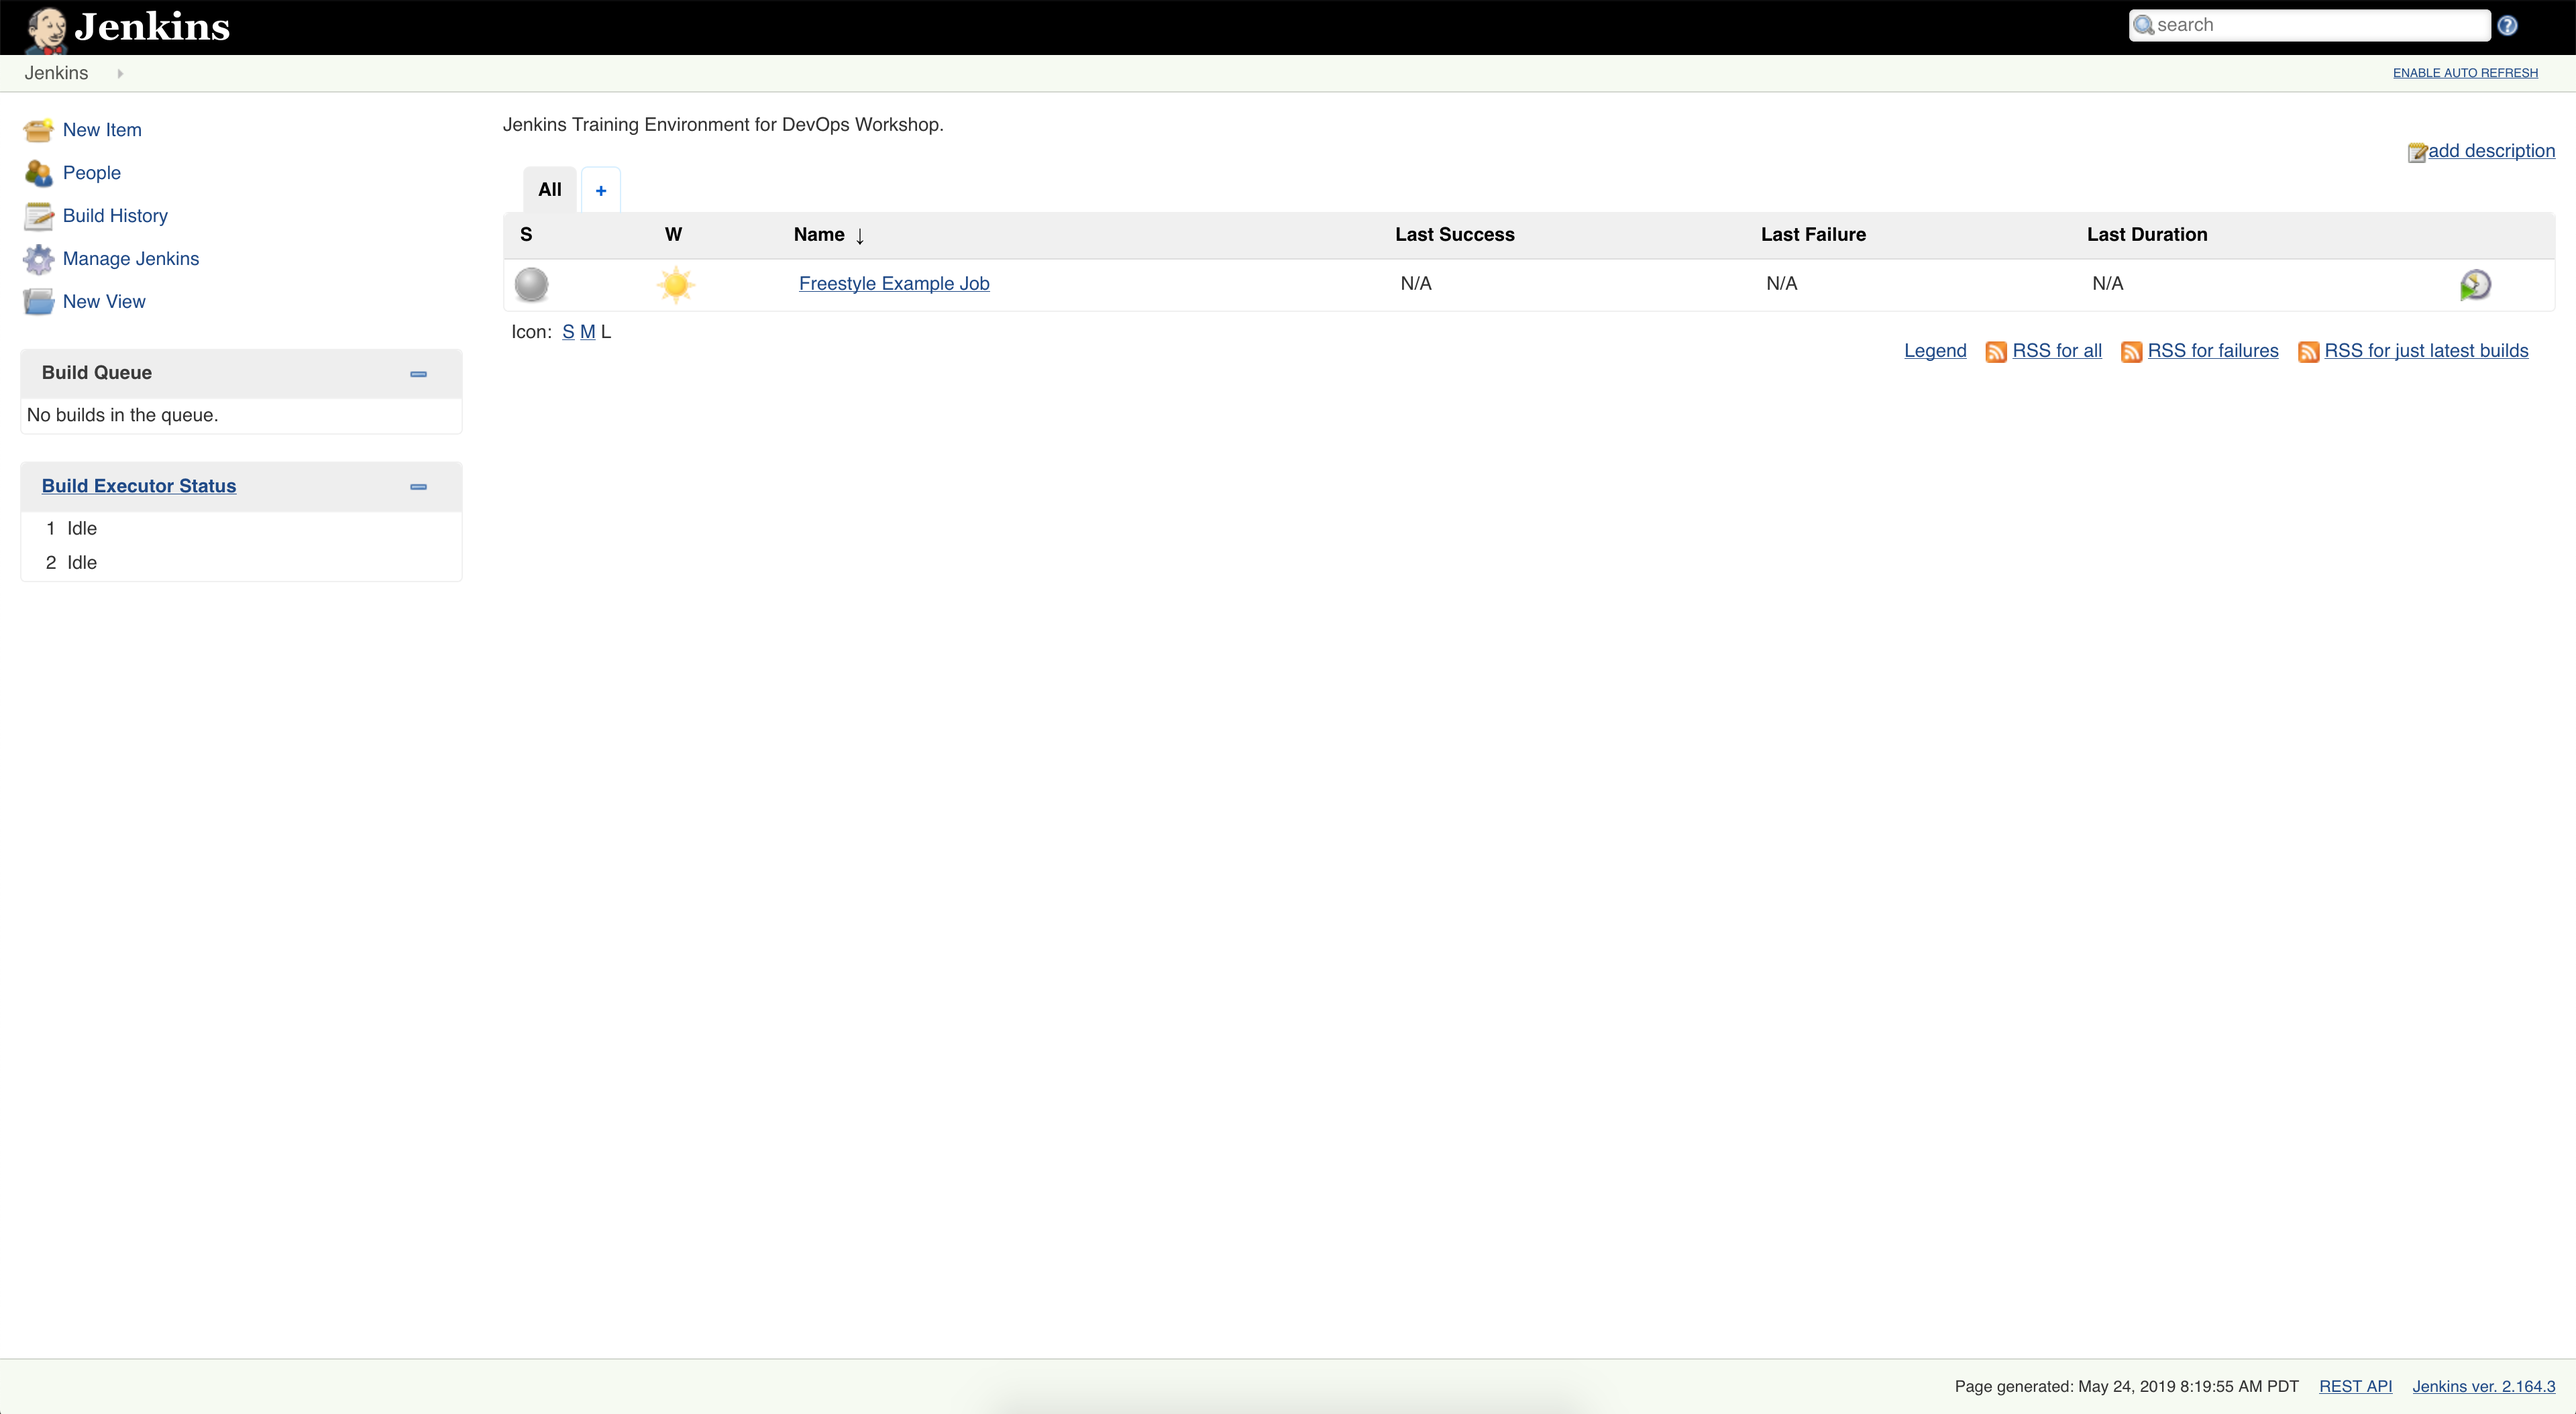
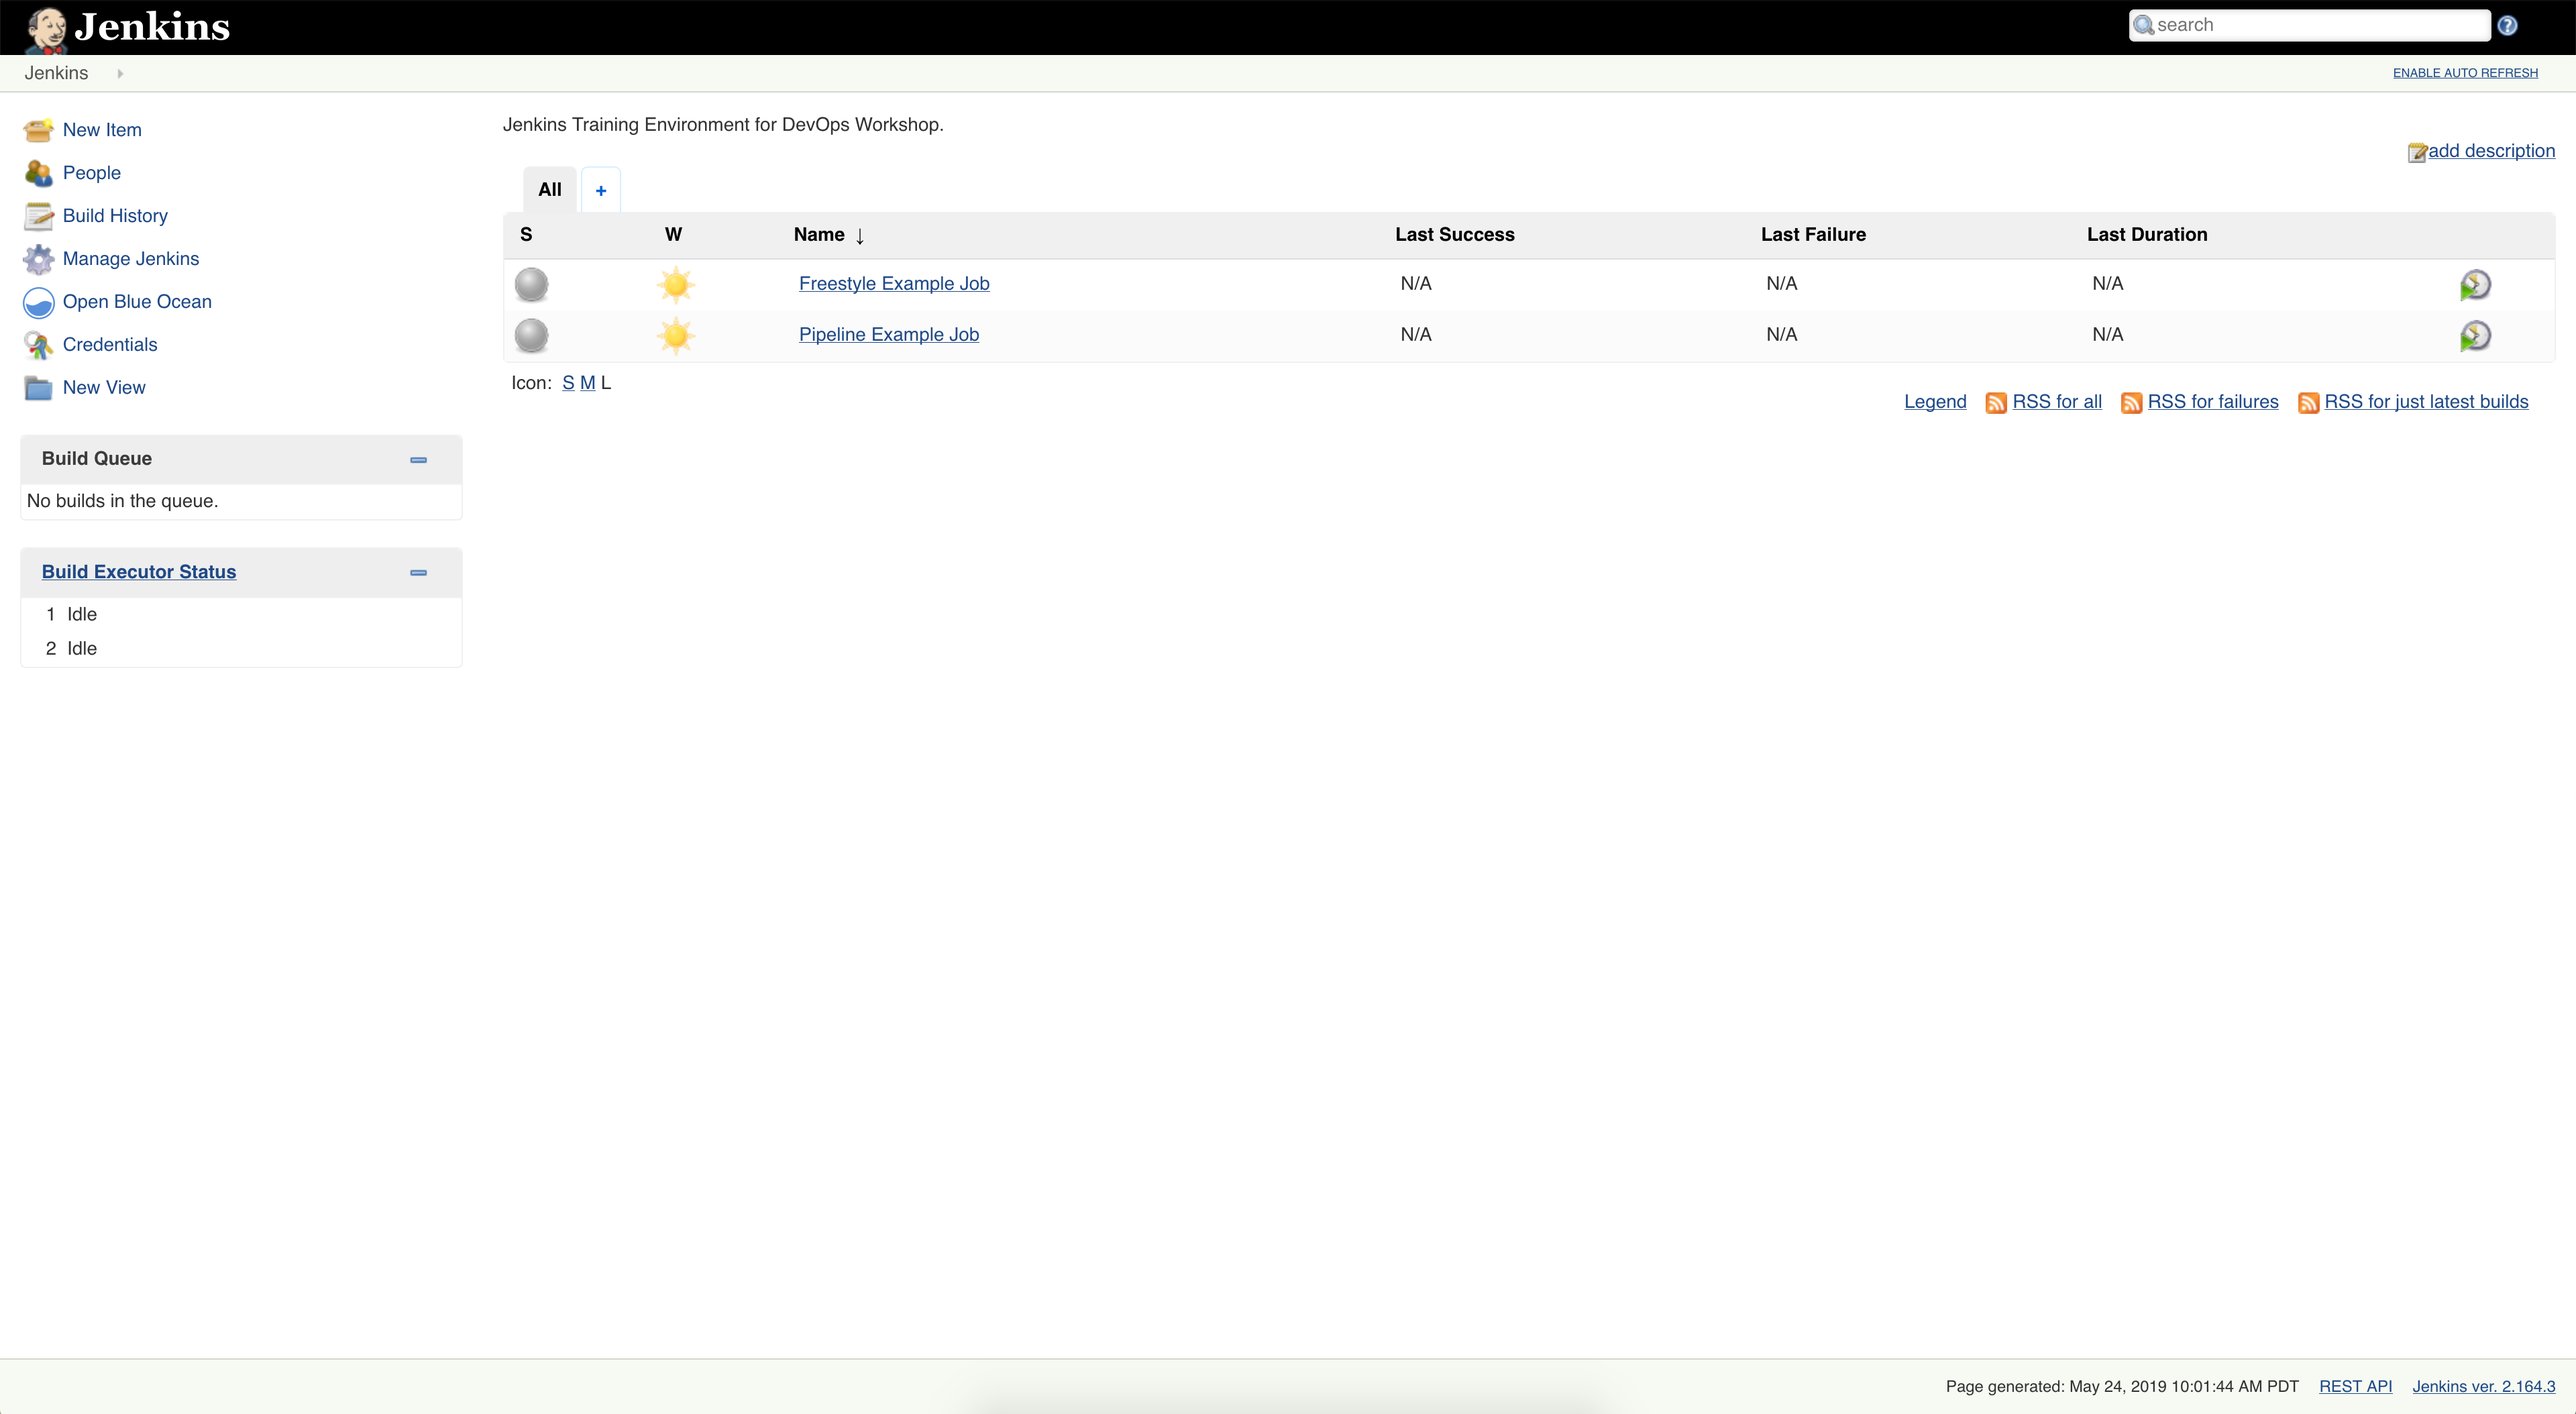
adding unit tests

diff --git a/02_pipelines/02_pipelines.md b/02_pipelines/02_pipelines.md
@@ -28,7 +28,7 @@ In another browser window, navigate to the Jenkins UI at `https://172.28.33.30:8
 It may take a while for Jenkins to fully initialize.
 
 
-### Managing Jenkins Jobs
+### Managing Jenkins Projects
 
 #### Freestyle Project
 
@@ -76,4 +76,121 @@ successfully pushed to the OpenShift integrated repository, and that
 an [image stream](https://172.28.33.20:8443/console/project/myproject/browse/images) has been created
 for the "example-flask-app".
 
+
+Try [creating a Freestyle job](http://172.28.33.30:8080/view/all/newJob) that builds and deploys 
+the Docker images for the example flask + NGINX multi-container application 
+from the [GitHub repo here](https://github.com/j-chao/example_apps_devops) to OpenShift.
+
+<img src="images/create_job.png" width="700">
+
+
 #### Pipeline Project
+
+Jenkins is extremely extensible, and has integrations into many third-party tools.
+So far, our CI/CD pipeline is relatively simple, but imagine having to define a multi-pipeline CI/CD infrastructure,  
+with GitHub hooks that get triggered per your git-branching strategies and managing pull-requests.  
+
+Add to that, additional tools and steps for validating functionality tests, security scans, 
+performance tests, and compliance tests.
+
+You may also want to integrate tools for notifying you and the team if a pipeline fails.
+For example, if a unit test fails your pipeline execution, have Jenkins send an email to the team.  
+
+Finally, add to that, the extension of your pipelines to higher environments, such as promoting code from development
+environments to test, stage, and production.
+
+You can see that very quickly, the idea of having to define all of this via the Jenkins UI 
+in a "freestyle" project is not the best.
+
+Fortunately, we have the ability to define all of our pipelines as code in the form of a  
+["Jenkinsfile"](https://jenkins.io/doc/book/pipeline/jenkinsfile/).
+
+
+A Pipeline's Jenkinsfile can be written in a text editor or an integrated development environment (IDE) and committed to source control 
+with the application code that Jenkins will build. 
+Jenkins can then check out the Jenkinsfile from source control as part of the Pipeline's build process, and then proceed to execute the Pipeline
+as it's defined in the Jenkinsfile.
+
+The following is an example Jenkinsfile that defines a Jenkins Pipeline Job 
+that does the exactly the same thing as the Freestyle Job we first looked at, 
+except it also adds in a step for running unit tests.
+
+```groovy
+#!/usr/bin/env groovy 
+pipeline {
+
+  agent any
+
+  stages {
+      
+    stage("Git Checkout") {
+      steps {
+        checkout([$class: 'GitSCM', branches: [[name: 'master']],
+        userRemoteConfigs: [[url: 'https://github.com/j-chao/example_apps_devops']]])
+      }
+    }
+
+    stage("Run Unit Tests") {
+      steps {
+        sh '''
+          python3 -m unittest flask_app/app_test.py -v
+          '''
+      }
+    }
+
+    stage("Build Docker Image") {
+      steps {
+        sh '''
+          docker build -t example-flask-app:latest flask_app/
+          '''
+      }
+    }
+
+    stage("Tag Docker Image") {
+      steps {
+        sh '''
+          docker tag example-flask-app:latest docker-registry-default.172.28.33.20.nip.io:80/myproject/example-flask-app:1.0.0
+          '''
+      }
+    }
+
+    stage("Login to OpenShift Integrated Repository") {
+      steps {
+        sh '''
+          oc login 172.28.33.20:8443 -u developer -p anyvalue --insecure-skip-tls-verify=true
+          docker login docker-registry-default.172.28.33.20.nip.io:80 -u developer -p $(oc whoami -t)
+          '''
+      }
+    }
+
+    stage("Push Image to Repository") {
+      steps {
+        sh '''
+          docker push docker-registry-default.172.28.33.20.nip.io:80/myproject/example-flask-app:1.0.0
+          '''
+      }
+    }
+
+  }
+}
+
+```
+
+Take a look at the Example Pipeline Job now, and see if you can understand how it's 
+configured different than the Example Pipeline Job.  
+
+Try running the Example Pipeline Job, and notice how you can also view the different stages of the pipeline,
+as they're defined.
+
+
+### Exploring Jenkins
+
+Of course, there are a lot of things that you can do with Jenkins
+that we just don't have the time to cover in this workshop.
+
+Take some time to explore the Jenkins interface, and be inspired by the possibilities:
+- [Open Blue Ocean](http://172.28.33.30:8080/blue/organizations/jenkins/pipelines)
+- [Jenkins Plugins](http://172.28.33.30:8080/pluginManager/available)
+- [Manage Jenkins](http://172.28.33.30:8080/manage)
+
+
